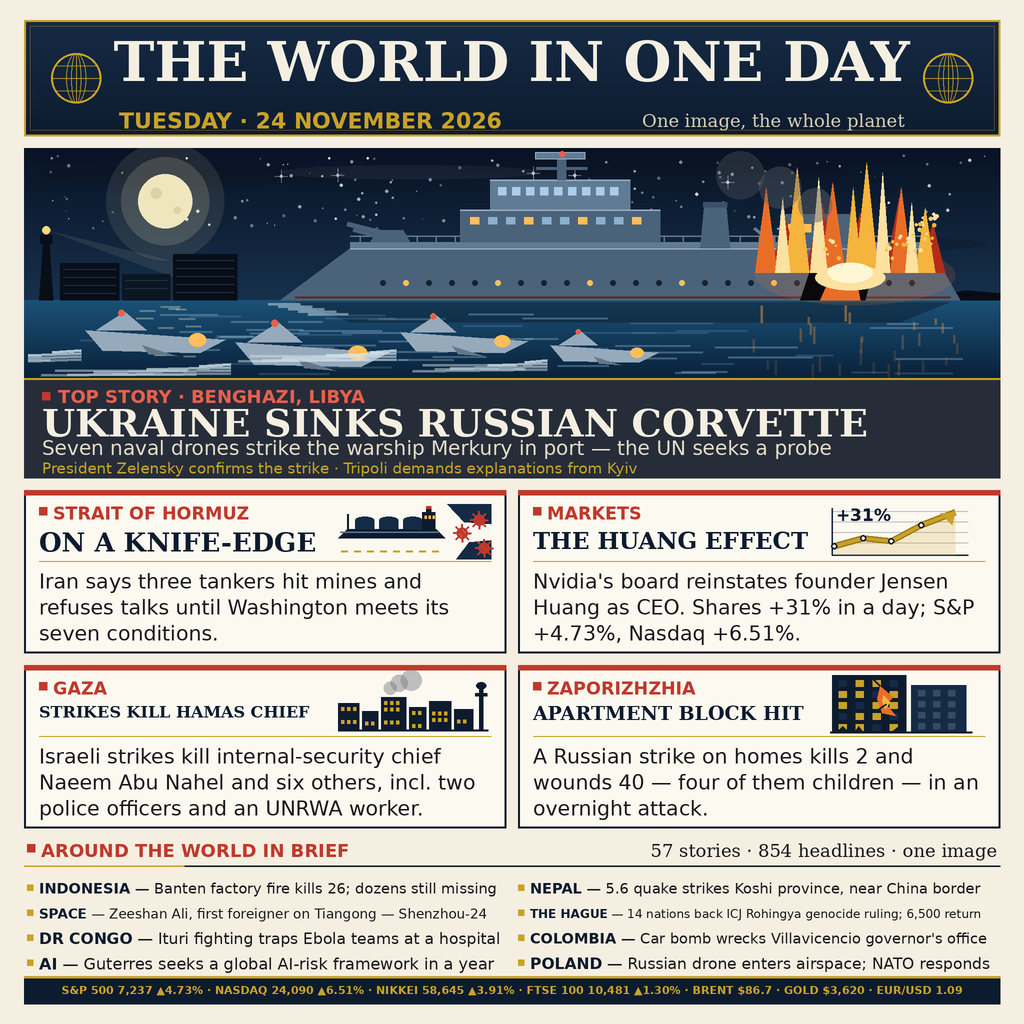
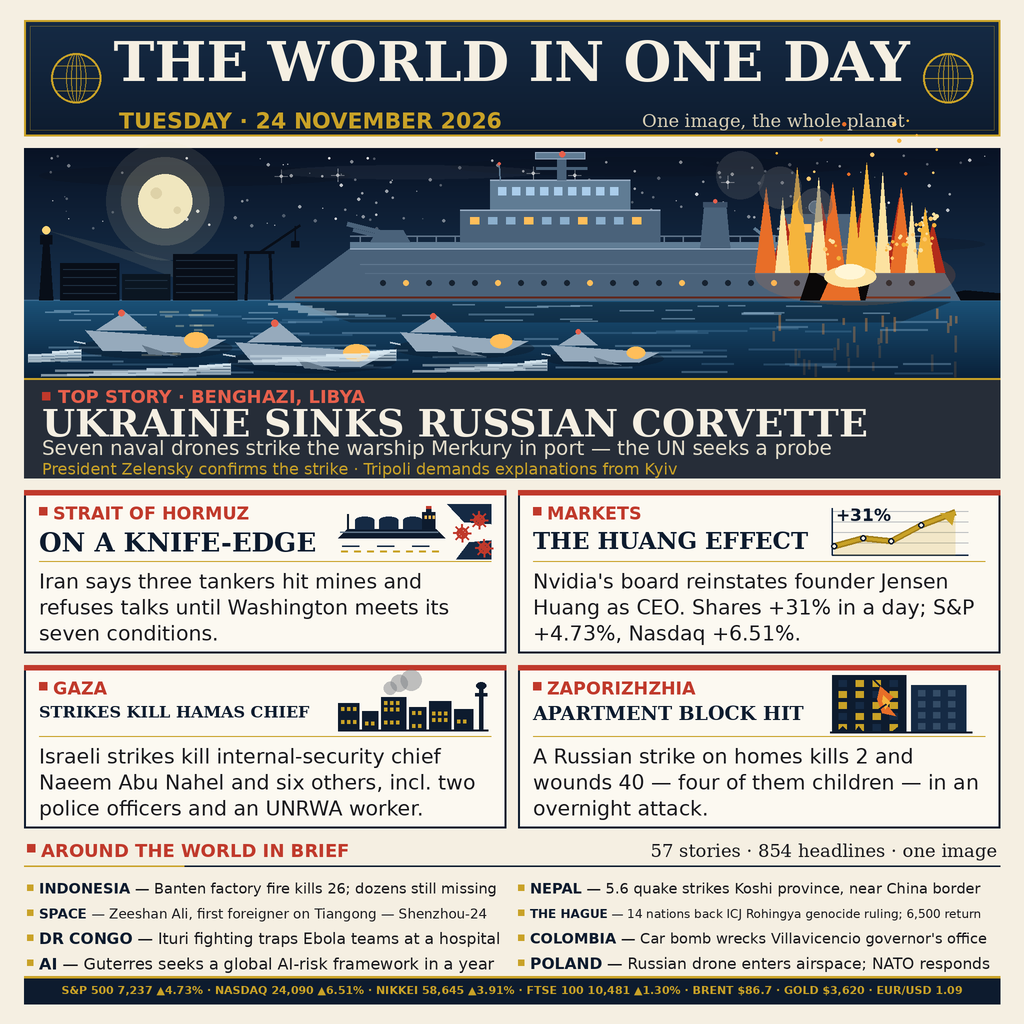
Round 4 defense: hull plating, port crane, tighter fire core, brighter drone wakes; main.ts rejects timestamp metadata

diff --git a/main.ts b/main.ts
@@ -10,6 +10,14 @@
 // shipped files lets the entry be verified byte for byte, and the manifest
 // itself is read back and re-verified against the files on disk.
 //
+// Round-4 hardening: the chunk walk also rejects timestamp-bearing
+// ancillary chunks (tEXt, iTXt, zTXt, tIME), so no metadata that could
+// carry a date or a free-text note can sneak into the shipped PNG and
+// break byte-for-byte reproduction; and the manifest read-back now
+// cross-checks the entry.png hash against the hash validated in stage 1
+// and requires every manifest path to be unique, so a duplicated or
+// swapped manifest entry is caught instead of silently shipped.
+//
 //   mkdir -p out && MAKEFUN_OUTPUT_DIR=out node main.ts
 
 import { copyFileSync, mkdirSync, readFileSync, writeFileSync } from 'node:fs';
@@ -114,6 +122,9 @@ function walkPng(bytes: Buffer, label: string): PngInfo {
       fail(`${label} carries a second IHDR chunk at offset ${offset}`);
     }
     if (type === 'IDAT') idatCount++;
+    if (type === 'tEXt' || type === 'iTXt' || type === 'zTXt' || type === 'tIME') {
+      fail(`${label} carries a ${type} chunk at offset ${offset}; timestamp-bearing or free-text metadata must never ship in the entry PNG`);
+    }
     chunks.push({ type, length, offset });
     offset = crcEnd;
     if (type === 'IEND') break;
@@ -230,6 +241,23 @@ for (const entry of parsed.files) {
   if (data.length !== entry.bytes || sha256(data) !== entry.sha256) {
     fail(`manifest entry ${entry.path} does not match the file on disk`);
   }
+}
+// The manifest's entry.png hash must be the hash validated in stage 1:
+// a manifest that names different bytes than the validated image is a
+// swapped manifest, even if every entry matches its own file on disk.
+const manifestPng = parsed.files.find((entry) => entry.path === 'entry.png');
+if (manifestPng === undefined) {
+  fail('manifest has no entry.png entry');
+}
+if (manifestPng.sha256 !== srcHash) {
+  fail(`manifest entry.png sha256 ${manifestPng.sha256} does not match the validated image ${srcHash}`);
+}
+const seenPaths = new Set<string>();
+for (const entry of parsed.files) {
+  if (seenPaths.has(entry.path)) {
+    fail(`manifest lists ${entry.path} twice`);
+  }
+  seenPaths.add(entry.path);
 }
 for (let i = 1; i < parsed.files.length; i++) {
   if (!(parsed.files[i - 1].path < parsed.files[i].path)) {

diff --git a/gen.py b/gen.py
@@ -15,6 +15,14 @@ ship's own hull with a glowing breach at the waterline, and four big
 drones with bright wakes converging on it; moon and port kept small and
 quiet. Major panels keep their detailed motifs, the wireframe-globe
 masthead, and the complete markets ticker from the day's verified closes.
+
+Round-4 strengthening (on top of the redraw, same composition): hull
+plating lines and a whip antenna, radar dome and funnel light on the
+ship; a dock crane at the port; a tighter bright core for the blast
+with embers rising above the flames; brighter spray fans, bow waves and
+waterline shadows on the drones; a layered horizon band of wave strokes
+and a thin horizon glow; wavelets under the tanker motif; the hero
+sub-line fitted to its width instead of a fixed size.
 """
 
 import random
@@ -150,6 +158,7 @@ HX0, HY0, HX1, HY1 = MX, 296, RIGHT, 956
 SEA_Y = 600
 vgrad(d, HX0, HY0, HX1, SEA_Y, (8, 18, 36), (22, 48, 76))
 vgrad(d, HX0, SEA_Y, HX1, 756, (26, 80, 118), (9, 32, 56))
+d.line([HX0, SEA_Y, HX1, SEA_Y], fill=(140, 180, 215, 70), width=3)         # horizon glow
 
 # stars: many faint, a few bright with sparkle crosses
 for _ in range(140):
@@ -170,6 +179,7 @@ for (cx0, cy0, cx1, cy1), col in [
         ((HX0 + 30, 330, 700, 372), (10, 16, 28, 74)),
         ((900, 314, 1700, 352), (10, 16, 28, 64)),
         ((1300, 470, HX1 - 30, 506), (10, 16, 28, 58)),
+        ((1400, 316, 1980, 340), (10, 16, 28, 40)),
         ((560, 330, 1080, 358), (190, 200, 215, 15))]:
     d.ellipse([cx0, cy0, cx1, cy1], fill=col)
 
@@ -192,6 +202,14 @@ for bx, bw, bh, tone in [(120, 118, 74, DARK), (244, 96, 52, (11, 22, 34)),
     for gy in range(SEA_Y - bh + 12, SEA_Y - 8, 16):
         d.line([bx + 6, gy, bx + bw - 6, gy], fill=(30, 48, 66), width=2)
 
+# dock crane, just left of the bow: legs, top beam, jib and hook line
+d.line([492, SEA_Y, 496, SEA_Y - 96], fill=DARK, width=6)
+d.line([544, SEA_Y, 540, SEA_Y - 96], fill=DARK, width=6)
+d.line([488, SEA_Y - 96, 548, SEA_Y - 96], fill=DARK, width=6)
+d.line([520, SEA_Y - 96, 600, SEA_Y - 150], fill=DARK, width=5)
+d.line([590, SEA_Y - 148, 590, SEA_Y - 118], fill=DARK, width=3)
+d.rectangle([582, SEA_Y - 118, 598, SEA_Y - 106], fill=DARK)
+
 # distant headland on the horizon, right, kept low and dark
 d.polygon([(1830, SEA_Y), (1930, 580), (2000, 586), (2000, SEA_Y)], fill=(7, 12, 20))
 
@@ -204,6 +222,8 @@ HULL = [(560, SEA_Y), (700, SEA_Y - 104), (1860, SEA_Y - 104), (1920, SEA_Y)]
 d.polygon(HULL, fill=SHIP)
 d.line([700, SEA_Y - 104, 1860, SEA_Y - 104], fill=(168, 188, 208), width=5)  # sheer line
 d.line([590, SEA_Y - 6, 1900, SEA_Y - 6], fill=(96, 40, 30), width=4)        # boot-top
+d.line([720, SEA_Y - 72, 1840, SEA_Y - 72], fill=(96, 120, 144), width=2)   # hull plating
+d.line([730, SEA_Y - 54, 1830, SEA_Y - 54], fill=(88, 112, 136), width=2)
 for i, px in enumerate(range(760, 1830, 46)):                                 # portholes
     lit = (i % 4 == 1)
     d.ellipse([px, SEA_Y - 40, px + 11, SEA_Y - 29],
@@ -234,11 +254,14 @@ d.line([1072, SEA_Y - 264, 1174, SEA_Y - 264], fill=SHIP, width=6)            # 
 d.rectangle([1070, SEA_Y - 296, 1170, SEA_Y - 282], fill=SHIP2,
             outline=(150, 170, 192), width=2)                                 # radar bar
 d.ellipse([1118, SEA_Y - 298, 1130, SEA_Y - 286], fill=RED_L)                 # masthead light
+d.line([1000, SEA_Y - 240, 998, SEA_Y - 272], fill=SHIP2, width=3)            # whip antenna
+d.ellipse([995, SEA_Y - 276, 1001, SEA_Y - 270], fill=RED_L)
 
 # funnel with cap and a faint smoke trail of its own
 d.polygon([(1400, SEA_Y - 104), (1460, SEA_Y - 104), (1452, SEA_Y - 188),
            (1408, SEA_Y - 188)], fill=SHIP)
 d.rectangle([1406, SEA_Y - 196, 1454, SEA_Y - 186], fill=(60, 80, 104))
+d.ellipse([1426, SEA_Y - 202, 1434, SEA_Y - 194], fill=RED_L)                 # funnel light
 
 # aft block, windows, and a missile launcher
 d.rectangle([1560, SEA_Y - 172, 1700, SEA_Y - 104], fill=SHIP)
@@ -247,6 +270,8 @@ for wx in range(1576, 1640, 32):
 d.rectangle([1520, SEA_Y - 130, 1550, SEA_Y - 104], fill=SHIP2)
 d.line([1530, SEA_Y - 126, 1508, SEA_Y - 144], fill=SHIP2, width=7)
 d.line([1542, SEA_Y - 126, 1522, SEA_Y - 148], fill=SHIP2, width=7)
+d.ellipse([1617, SEA_Y - 199, 1643, SEA_Y - 173], fill=SHIP2,
+          outline=(150, 170, 192), width=2)                                   # radar dome
 
 # hull reflection on the water
 d.polygon([(590, SEA_Y + 4), (700, SEA_Y + 44), (1800, SEA_Y + 44),
@@ -283,9 +308,10 @@ for fx, fw, fh, col in [(-150, 30, 150, FIRE3), (-80, 34, 190, FIRE3),
                         (110, 26, 140, FIRE3)]:
     d.polygon([(EX + fx, EY + 5), (EX + fx + fw, EY + 5),
                (EX + fx + fw // 2, EY + 5 - fh)], fill=col)
-# small bright heart at the base, where the fire is hottest
-d.ellipse([EX - 70, EY - 10, EX + 70, EY + 40], fill=FIRE3)
-d.ellipse([EX - 45, EY - 15, EX + 45, EY + 25], fill=(255, 246, 214))
+# small bright heart at the base, where the fire is hottest — kept tight
+# so it reads as the core of the blast, not a pale shape on the deck
+d.ellipse([EX - 52, EY - 8, EX + 52, EY + 34], fill=FIRE3)
+d.ellipse([EX - 30, EY - 12, EX + 30, EY + 18], fill=(255, 246, 214))
 for _ in range(46):                                                           # sparks
     ang = rng.uniform(-2.6, -0.4)
     dist = rng.randint(60, 200)
@@ -294,6 +320,12 @@ for _ in range(46):                                                           # 
     r = rng.choice([2, 3, 3, 4])
     d.ellipse([sx - r, sy - r, sx + r, sy + r],
               fill=rng.choice([FIRE2, FIRE3, (255, 200, 110)]))
+for _ in range(14):                                                           # embers rising above the flames
+    ex = EX + rng.randint(-170, 180)
+    ey = EY - rng.randint(180, 300)
+    r = rng.choice([2, 3, 4])
+    d.ellipse([ex - r, ey - r, ex + r, ey + r],
+              fill=rng.choice([FIRE1, FIRE2, (255, 200, 110)]))
 # smoke plume hugging the blast, drifting up and to the left
 for sx, sy, sr, sa in [(1630, SEA_Y - 190, 34, 120), (1560, SEA_Y - 225, 42, 100),
                        (1480, SEA_Y - 250, 48, 80)]:
@@ -306,6 +338,13 @@ for _ in range(58):
     wl = rng.randint(60, 170)
     col = (150, 190, 220, 90) if rng.random() > 0.4 else (96, 146, 184, 70)
     d.line([wx, wy, wx + wl, wy], fill=col, width=4)
+
+# brighter, shorter wave strokes near the horizon to layer the sea
+for _ in range(26):
+    wx = rng.randint(HX0 + 20, HX1 - 190)
+    wy = rng.randint(SEA_Y + 8, SEA_Y + 42)
+    wl = rng.randint(30, 90)
+    d.line([wx, wy, wx + wl, wy], fill=(170, 205, 232, 110), width=3)
 
 # firelight shimmering on the sea under the blast
 for _ in range(30):
@@ -327,21 +366,25 @@ for _ in range(20):
 for dx, dy, sc in [(170, 660, 2.2), (470, 684, 2.4), (800, 664, 2.0), (1100, 690, 1.7)]:
     ln = int(128 * sc)
     body = (150, 170, 188)
+    d.ellipse([dx - int(6 * sc), dy + int(6 * sc), dx + ln + int(6 * sc),
+               dy + int(26 * sc)], fill=(8, 14, 24, 70))                     # waterline shadow
     d.polygon([(dx, dy), (dx + ln, dy + int(9 * sc)), (dx + ln - int(24 * sc), dy + int(21 * sc)),
                (dx + int(16 * sc), dy + int(19 * sc))], fill=body)
+    d.line([dx - int(10 * sc), dy + int(10 * sc), dx, dy + int(12 * sc)],
+           fill=(235, 244, 250, 200), width=4)                                # bow wave
     d.polygon([(dx + int(10 * sc), dy), (dx + int(36 * sc), dy - int(17 * sc)),
                (dx + int(56 * sc), dy)], fill=body)                            # fin
     d.polygon([(dx + int(52 * sc), dy + int(14 * sc)), (dx + int(84 * sc), dy + int(24 * sc)),
                (dx + int(58 * sc), dy + int(22 * sc))], fill=(100, 120, 138))  # wing
-    d.ellipse([dx + ln - int(34 * sc), dy + int(3 * sc), dx + ln - int(18 * sc),
-               dy + int(15 * sc)], fill=(255, 190, 90))                       # sensor eye
+    d.ellipse([dx + ln - int(38 * sc), dy + int(2 * sc), dx + ln - int(16 * sc),
+               dy + int(16 * sc)], fill=(255, 190, 90))                       # sensor eye
     d.ellipse([dx + int(30 * sc), dy - int(19 * sc), dx + int(36 * sc),
                dy - int(13 * sc)], fill=RED_L)                                # signal light
     for k in range(4):                                                        # spray fan
         wy = dy + int(20 * sc) + k * 6
         sx0 = max(HX0 + 8, dx - int((30 + k * 44) * sc))
         d.line([sx0, wy, dx - int(4 * sc), wy - 4],
-               fill=(220, 236, 244, 200 - k * 28), width=6)
+               fill=(225, 240, 248, 235 - k * 30), width=6)
     for k in range(2):                                                        # foam at its own waterline
         fy = dy + int(24 * sc) + k * 8
         fx0 = max(HX0 + 8, dx - int(150 * sc) + k * 24)
@@ -366,7 +409,8 @@ sub_f = fit_font(d, "Seven naval drones strike the warship Merkury in port — t
 d.text((HX0 + 36, 872),
        "Seven naval drones strike the warship Merkury in port — the UN seeks a probe",
        font=sub_f, fill=(226, 220, 202))
-sub2_f = font(SANS, 30)
+sub2_f = fit_font(d, "President Zelensky confirms the strike · Tripoli demands explanations from Kyiv",
+                  SANS, 32, HX1 - HX0 - 72, min_size=26)
 d.text((HX0 + 36, 919),
        "President Zelensky confirms the strike · Tripoli demands explanations from Kyiv",
        font=sub2_f, fill=GOLD)
@@ -394,6 +438,8 @@ def motif_tanker(x, y):
     d.rectangle([x + 176, y - 2, x + 186, y + 10], fill=NAVY)                 # funnel
     d.rectangle([x + 176, y - 2, x + 186, y + 3], fill=RED)
     d.line([x + 20, y + 44, x + 20, y + 14], fill=NAVY, width=4)              # mast
+    for wx in (x + 8, x + 78, x + 148):                                        # wavelets under the hull
+        d.line([wx, y + 78, wx + 34, y + 78], fill=NAVY2, width=3)
     for mx, my in [(x + 248, y + 52), (x + 282, y + 26), (x + 292, y + 82)]:  # mines
         d.ellipse([mx - 11, my - 11, mx + 11, my + 11], outline=RED, width=5)
         for ddx, ddy in [(0, -18), (0, 18), (-18, 0), (18, 0),
